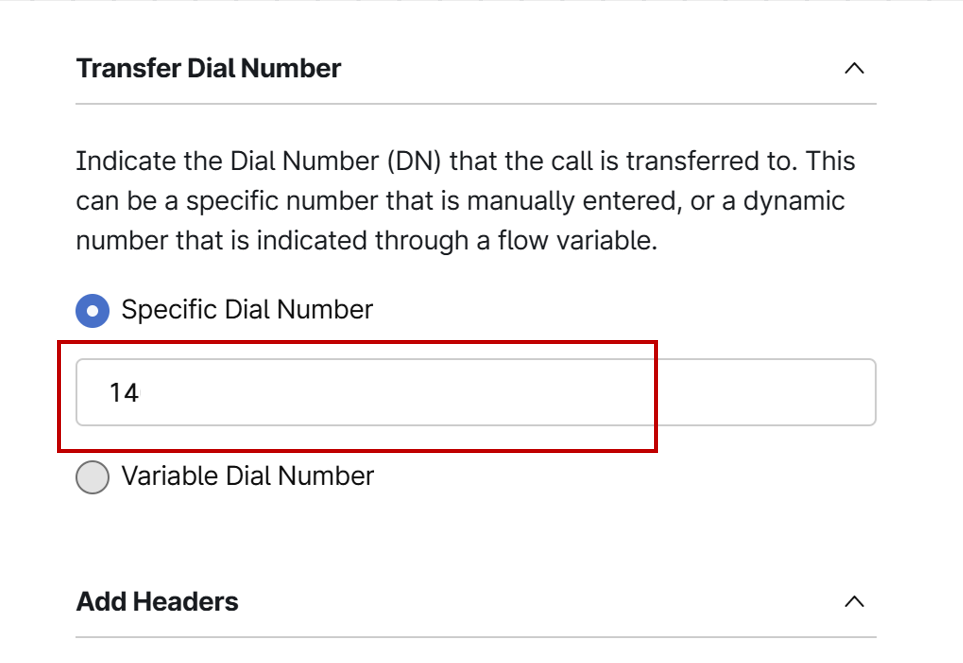
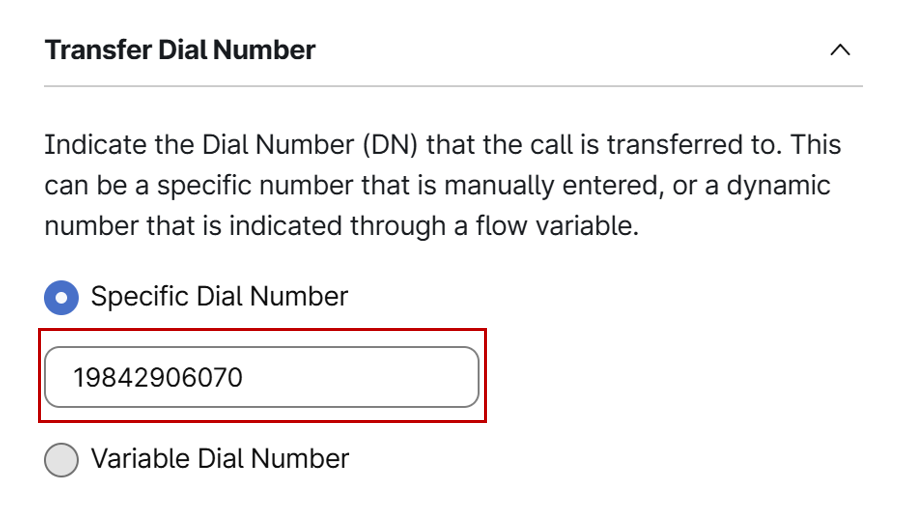
test13

diff --git a/docs/Excercise2.md b/docs/Excercise2.md
@@ -28,11 +28,11 @@ The current flow is as follows:
 
 - Ensure that the agent is logged into the desktop and has an "Available" status.
 
-- Call the provided number "**+1.....**" from your cell phone and press Option 1. 
+- Call the same entry point number that was configured in Lab 1 for an inbound call and press option 1. 
 
 - You will hear a **ringback** and a menu prompting you to enter your user ID.
 
-- The **ringback** you hear is the **first issue**, as it indicates a new call is being made and hitting a new entry point.
+- The **ringback** you hear is the **first issue**, as it indicates a new call is being made and hitting a transferred entry point (DN).
 
 - Once you enter your user ID, the call will be presented to the agent.
 
@@ -48,7 +48,7 @@ The current flow is as follows:
 
 - To understand why this is happening, let's inspect the first flow.
 
-- In the Customer Experience section of Control Hub, select "Flows" and search for the flow you have mapped to your entry point, "**WebexOne_Flow_User[num]**."
+- In the Customer Experience section of Control Hub, select "Flows" and search for the flow you have mapped to your entry point, "**WebexOne_Flow_[num]**."
 
       ![Nav](./assets/2310_Excercise2_1_2.png){ width="200" }
 
@@ -56,7 +56,7 @@ The current flow is as follows:
 
       ![Nav](./assets/2310_Excercise2_1_3.png){ width="700" }
 
-- Select the Blind Transfer node, and you will see it is transferring the call to a number "**19842990193**" that is mapped to a different flow called "**WebexOne_Flow_Transfer**"
+- Select the Blind Transfer node, and you will see it is transferring the call to a number "**19842906070**", which is mapped to a different flow called "**WebexOne_Flow_Transfer**"
 
       ![Nav](./assets/2310_Excercise2_1_4.png){ width="500" }
 
@@ -64,7 +64,7 @@ The current flow is as follows:
 
 - As a result, the variables as well defined in this flow are not being passed to the "**WebexOne_Flow_Transfer**" flow.
 
-- To check these variables, click on any empty space on the flow canvas and review the right side of the flow.
+- To check these variables, click on any empty space on the flow canvas and review the right side of the flow in **Variable Definition** section.
 
       ![Nav](./assets/2310_Excercise2_1_5.png){ width="500" }
 
@@ -72,7 +72,7 @@ The current flow is as follows:
 
 - To rectify this, we need a node that handles internal transfers more effectively. 
 
-The Flow Designer provides a "GoTo Node" specifically for this use case.
+- The Flow Designer provides a "GoTo Node" specifically for this use case.
 
 !!! Note 
       A GoTo Node is used to seamlessly transfer a call to another flow within the same system, preserving variables. 
